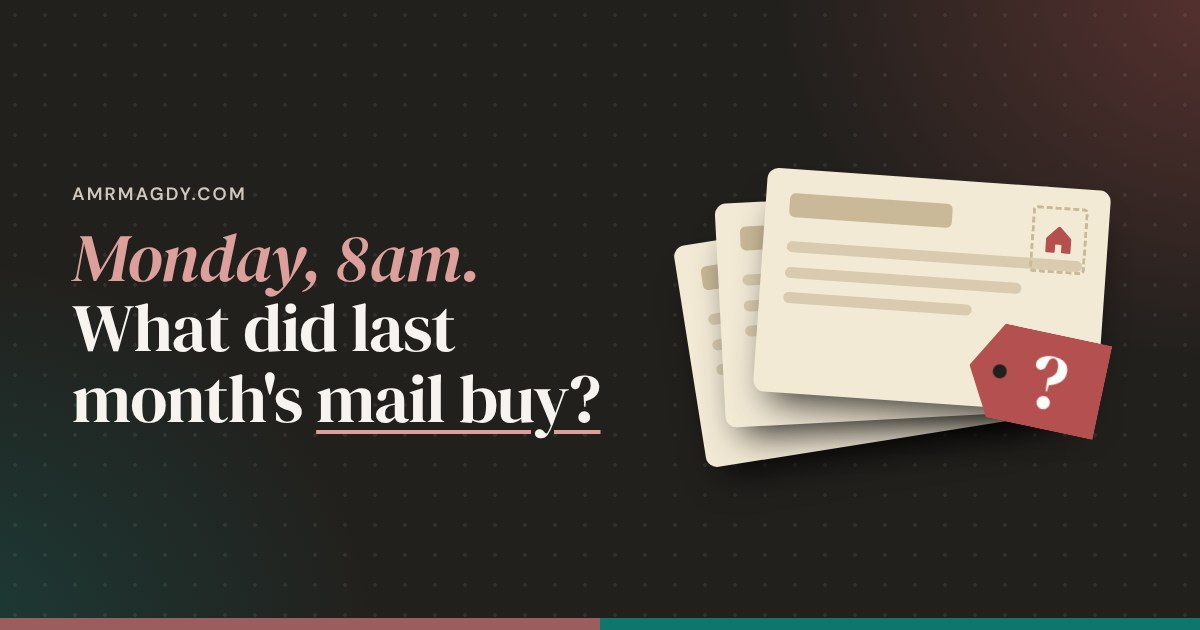
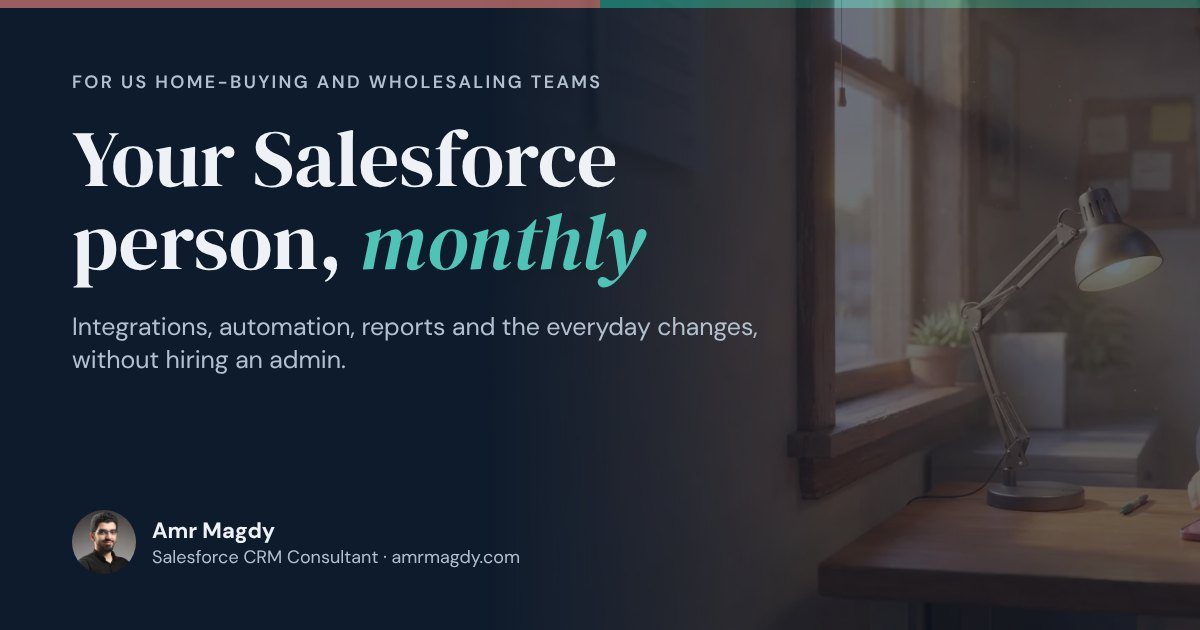
Homepage share image and titles match the new hero (#71)
Claude-Session: https://claude.ai/code/session_01YN16oHrUNkGpVvL6w64ycm

diff --git a/index.html b/index.html
@@ -20,19 +20,19 @@
 
 <meta property="og:type" content="website">
 <meta property="og:url" content="https://amrmagdy.com/">
-<meta property="og:title" content="Monday, 8am. Do you know what last month's mail actually bought?">
+<meta property="og:title" content="Your Salesforce person, monthly, for home-buying and wholesaling teams">
 <meta property="og:description" content="Amr Magdy, Salesforce CRM Consultant for home-buying and wholesaling teams. Integrations, automation, reports and everyday changes, monthly, without hiring an admin.">
-<meta property="og:image" content="https://amrmagdy.com/imgs/og-home.jpg?v=4">
+<meta property="og:image" content="https://amrmagdy.com/imgs/og-home.jpg?v=5">
 <meta property="og:image:width" content="1200">
 <meta property="og:image:height" content="630">
-<meta property="og:image:alt" content="Monday, 8am. Do you know what last month's mail actually bought? Amr Magdy, Salesforce CRM Consultant">
+<meta property="og:image:alt" content="Your Salesforce person, monthly. Amr Magdy, Salesforce CRM Consultant">
 <meta property="og:site_name" content="Amr Magdy">
 <meta property="og:locale" content="en_US">
 <meta name="twitter:card" content="summary_large_image">
-<meta name="twitter:title" content="Monday, 8am. Do you know what last month's mail actually bought?">
+<meta name="twitter:title" content="Your Salesforce person, monthly, for home-buying and wholesaling teams">
 <meta name="twitter:description" content="Amr Magdy, Salesforce CRM Consultant for home-buying and wholesaling teams. Integrations, automation, reports and everyday changes, monthly, without hiring an admin.">
-<meta name="twitter:image" content="https://amrmagdy.com/imgs/og-home.jpg?v=4">
-<meta name="twitter:image:alt" content="Monday, 8am. Do you know what last month's mail actually bought? Amr Magdy, Salesforce CRM Consultant">
+<meta name="twitter:image" content="https://amrmagdy.com/imgs/og-home.jpg?v=5">
+<meta name="twitter:image:alt" content="Your Salesforce person, monthly. Amr Magdy, Salesforce CRM Consultant">
 
 <link rel="icon" type="image/svg+xml" href="imgs/fav.svg">
 <link rel="apple-touch-icon" href="imgs/apple-touch-icon.png">
@@ -185,7 +185,7 @@
       "founder": {
         "@id": "https://amrmagdy.com/#person"
       },
-      "image": "https://amrmagdy.com/imgs/og-home.jpg?v=4",
+      "image": "https://amrmagdy.com/imgs/og-home.jpg?v=5",
       "url": "https://amrmagdy.com/",
       "email": "info@AmrMagdy.com",
       "areaServed": ["United States"],
